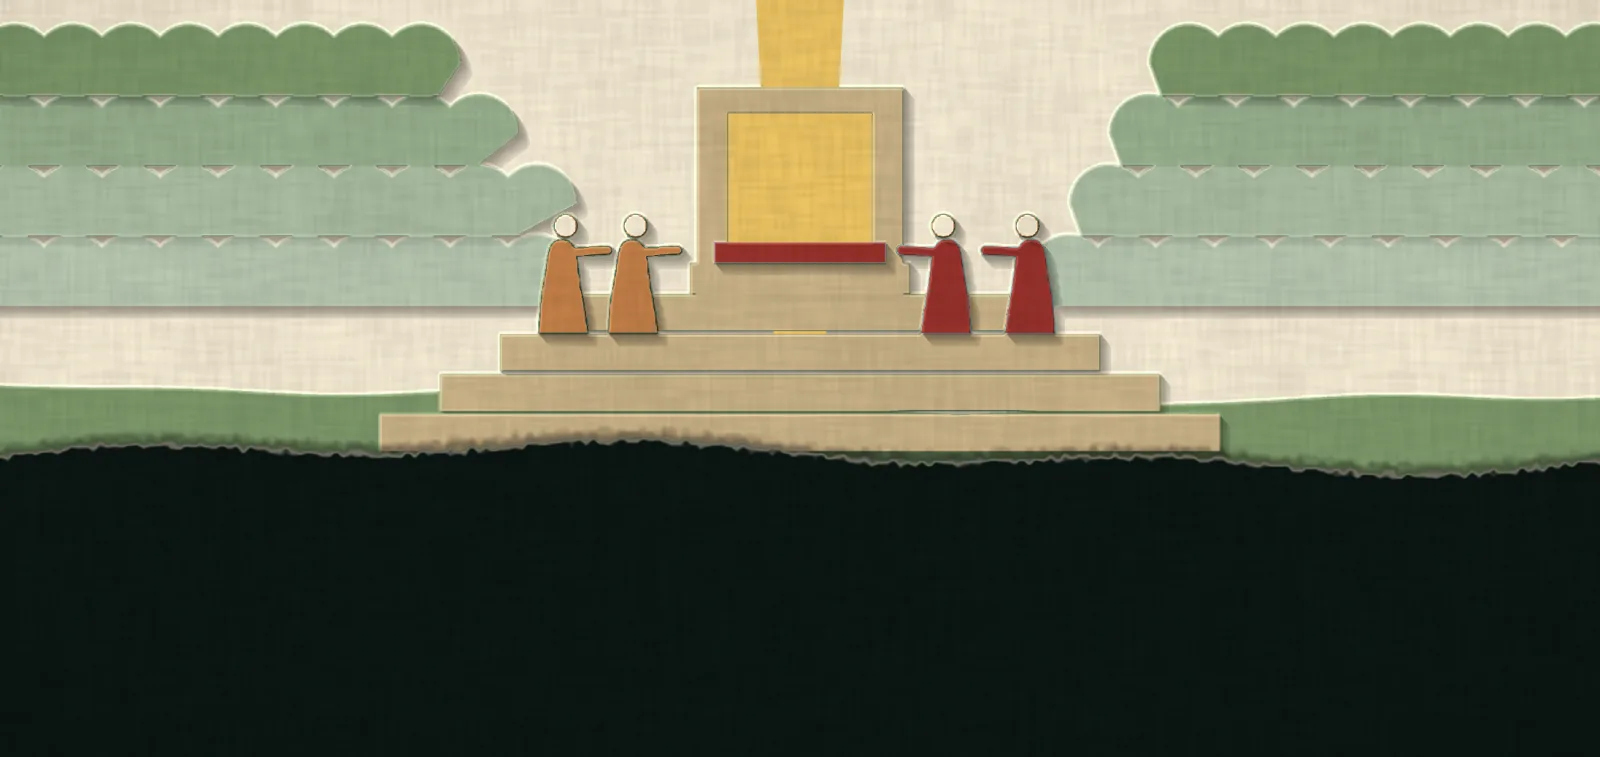
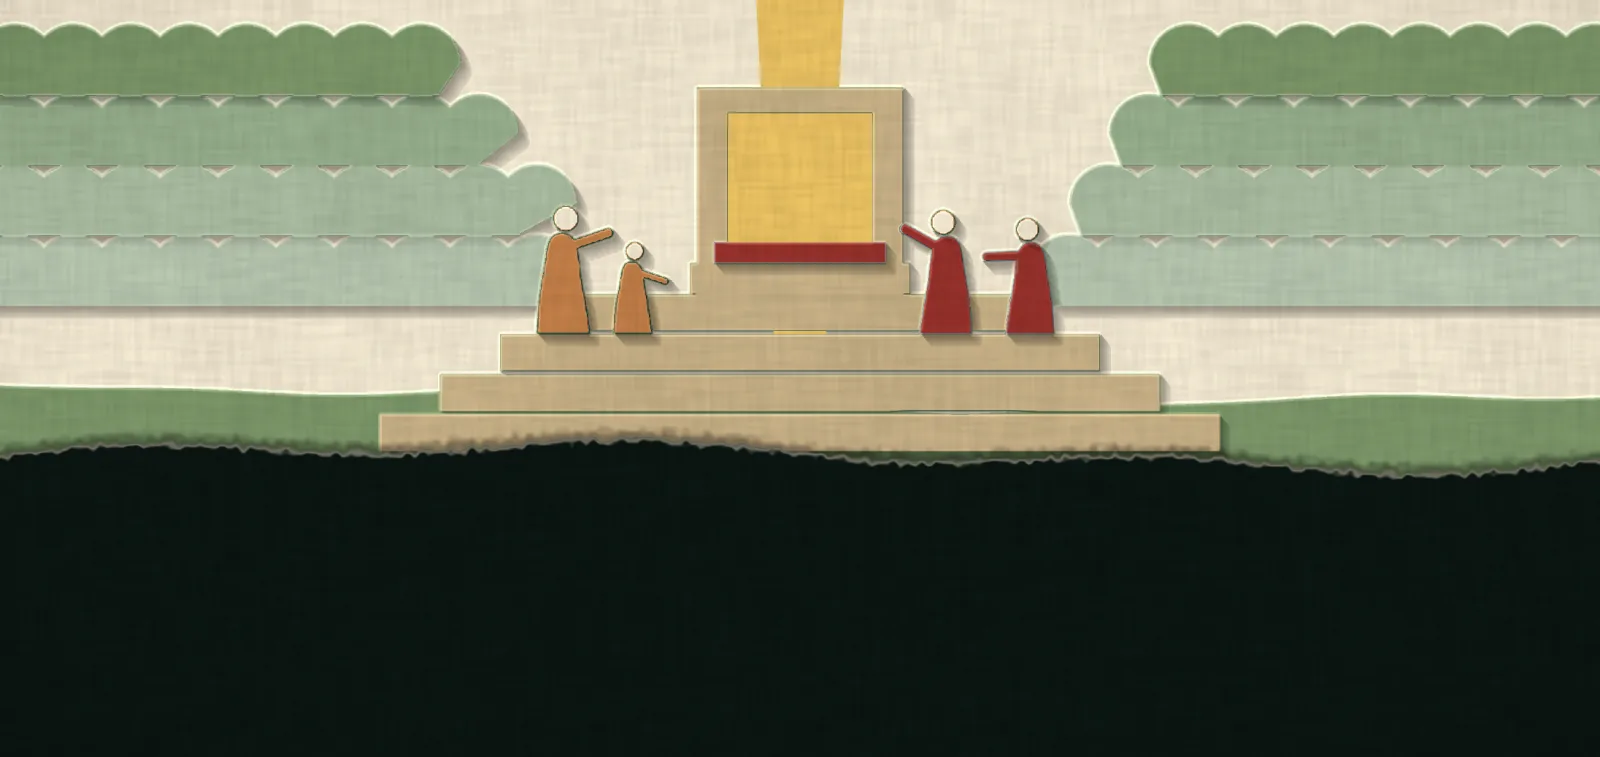
Vary the climbers in Hebrews 4's throne scene
All four shared one height and pose, which looked stiff. Each now has
its own, so they read as a mixed group of people.

Changed region(s): [[0.3125, 0.2734, 0.4375, 0.4557], [0.5625, 0.2734, 0.6562, 0.3646]]

diff --git a/components/scenes/three/scenes/PaperScenes.tsx b/components/scenes/three/scenes/PaperScenes.tsx
@@ -186,18 +186,18 @@ function paintMercy(t: number) {
   steps(x, FLOOR, 4);
   throne(x, FLOOR - 4 * rise, 0.86);
   const climb = smoothstep(6.5, 12.6, t);
-  const climbers: readonly (readonly [number, number])[] = [
-    [-340, 0],
-    [330, 0.22],
-    [-240, 0.4],
-    [210, 0.55],
+  const climbers: readonly (readonly [number, number, number, number])[] = [
+    [-340, 0, 128, 0.62],
+    [330, 0.22, 116, 0.46],
+    [-240, 0.4, 92, 0.34],
+    [210, 0.55, 124, 0.7],
   ];
-  climbers.forEach(([d, start], i) => {
+  climbers.forEach(([d, start, h, arm], i) => {
     if (climb <= start) return;
     const k = (climb - start) / (1 - start);
-    person(x + d * (1 - k * 0.3), FLOOR - Math.floor(k * 3) * rise, 120, {
+    person(x + d * (1 - k * 0.3), FLOOR - Math.floor(k * 3) * rise, h, {
       face: d < 0 ? 1 : -1,
-      arm: 0.5,
+      arm,
       tint: i % 2,
     });
   });
